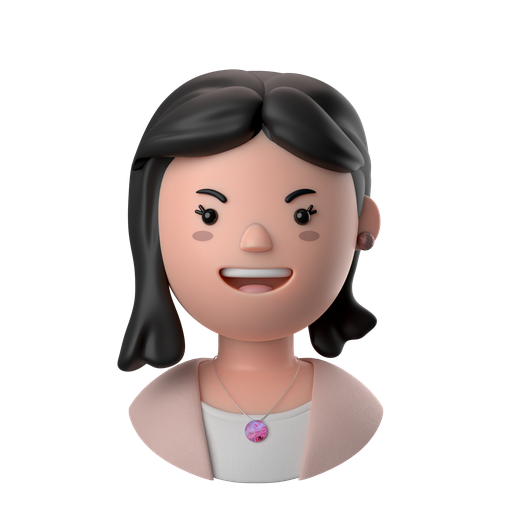
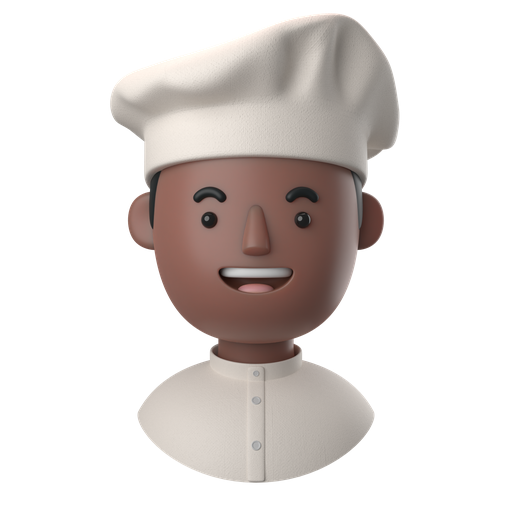
Update the projet

diff --git a/app.js b/app.js
@@ -1,23 +1,115 @@
+/*array of items */
+
 const items = [ "paper", "rock", "scissors"];
 const moves = ["winner" ,"winner2"];
+const names = ["Alix","Élie","Dominique","Morgan","Loïs","Eden","Charlie","Ange","Camille","Stéphane","Ivy","Joy","Cameron","Terry","Taylor","Sidney","Skye","Yuri","Yuma","Yuki","Tomi","Tama","Aoi","Kaori",]
+const avatar = [
+  {
+    id : 1,
+    src : "./image/avatar1.png",
+  },
+
+  {
+    id : 2,
+    src : "./image/avatar2.png",
+  },
+
+  {
+    id : 3,
+    src : "./image/avatar3.png",
+  },
+
+  {
+    id : 4,
+    src : "./image/avatar4.png",
+  },
+
+  {
+    id : 5,
+    src : "./image/avatar5.png",
+  },
+
+  {
+    id : 6,
+    src : "./image/avatar6.png"
+  },
+
+  {
+    id : 7,
+    src : "image/avatar7.png",
+  },
+
+  {
+    id : 8,
+    src : "./image/avatar8.png",
+  },
+
+  {
+    id : 9,
+    src : "./image/avatar9.png",
+  },
+
+
+  {
+    id : 10,
+    src : "./image/avatar10.png",
+  },
+]
+
 
 var choice = document.getElementById("choice");
 var replay = document.getElementById("replay");
 var annoucement= document.getElementById("annoucement");
+
+/*Avatar/skin/character */
 const computerAvatar= document.getElementById("computerAvatar");
 const playerAvatar= document.getElementById("playerAvatar");
+
+/*names */
+const computerName = document.getElementById("computerName");
+
+/*bouttons items */
 const play = document.getElementById("play");
 const playbtn = document.getElementById("btnplay");
 const btns = document.querySelectorAll(".btn-check");
 const btnReplay = document.getElementById("btnreplay");
+
+
 const computerSelection = document.getElementById("computerSelection");
 const playerSelection = document.getElementById("playerSelection");
 const playerIsWinning = document.getElementById("playerIsWinning");
+
+/*winning items */
 const computerIsWinning = document.getElementById("computerIsWinning");
 const stars = document.querySelectorAll(".star");
 const confettis = document.querySelectorAll(".confetti");
 
 
+
+/* Generate a random image and names for the computer avatar  */
+
+const randomItems = (arr) =>{
+  return Math.floor(Math.random() * arr.length)
+}
+
+const randomComputerImg = ()=>{
+  /*computer image cannot be the same as the player  */
+ computerAvatar.src =  avatar[randomItems(avatar)].src
+ if (computerAvatar.src == playerAvatar.src){
+  computerAvatar.src =  avatar[randomItems(avatar)].src
+ }
+
+}
+
+const randomComputerName = ()=>{
+ computerName.textContent = names[randomItems(names)];
+}
+computerSpeudo =  computerName.textContent;
+
+window.addEventListener("DOMContentLoaded", () => {
+  randomComputerImg()
+  randomComputerName()
+})
 
 
 
@@ -27,7 +119,6 @@ const confettis = document.querySelectorAll(".confetti");
   playbtn.addEventListener("click", ()=>{
   play.classList.add("visually-hidden")
   choice.classList.remove("visually-hidden")
-
  });
 
  
@@ -36,21 +127,23 @@ const confettis = document.querySelectorAll(".confetti");
 
 /*THE GAME */
 /* Getting player choice*/
-let playerChoice = undefined;
+ let playerChoice = undefined;
  let playerScore = 0;
  let computerScore = 0;
 
 
 
 
-btns.forEach(btn => 
+
+
+  btns.forEach(btn => 
   btn.addEventListener("click", (e)=>{
-   playerChoice = e.currentTarget.id;
+  playerChoice = e.currentTarget.id;
 
   const computerResult = document.getElementById("computer-result");
   const playerResult = document.getElementById("player-result");
 
-  
+
 
  if (playerScore < 5 && computerScore < 5){
   
@@ -114,7 +207,7 @@ if(!equality.classList.contains("visually-hidden")){
 /*Display the result */
 computerResult.textContent = computerScore;
 playerResult.textContent = playerScore;
-computerSelection.innerHTML =`<p>The computer choose <span class="text-danger text-capitalize fs-3">${computerChoice}</span> </p>`
+computerSelection.innerHTML =`<p>${computerName.textContent} choose <span class="text-danger text-capitalize fs-3">${computerChoice}</span> </p>`
 playerSelection.innerHTML =`<p>You\'ve choose <span class="text-primary text-capitalize fs-3">${playerChoice}</span> </p>`
 
 } else {  
@@ -124,7 +217,6 @@ playerSelection.innerHTML =`<p>You\'ve choose <span class="text-primary text-cap
     } 
   
     var winnerMoves = moves[randomMoves(moves)]
-    console.log(winnerMoves)
  
 
   if(computerScore == 5){
@@ -152,8 +244,6 @@ playerSelection.innerHTML =`<p>You\'ve choose <span class="text-primary text-cap
     stars.forEach( star=>{
        star.classList.add("emoticon2");
     });
-
-
 
   }
   
@@ -198,14 +288,17 @@ btnReplay.addEventListener("click",()=>{
      star.classList.remove("emoticon2");
   });
 
-})
+ 
+  computerSelection.innerHTML =""
+   playerSelection.innerHTML =""
 
+  randomComputerImg()
+  randomComputerName()
+})
 }
 
 })
 );
-
-
 
 
 

diff --git a/index.html b/index.html
@@ -14,15 +14,52 @@
 <body >
 
 
+<!--Modal-->
+<div id="modal" class="container-fluid d-flex justify-content-center align-items-center position-absolute top-50 start-50 translate-middle visually-hidden"   >
+  <div id="modalbg" class="container-fluid position-absolute d-flex justify-content-center align-items-center ">  
+    <div id="modalcontent" class="container border border-dark rounded  bg-light col-md-9 "  >
+      <div class="row d-md-flex justify-content-center align-items-center">
+
+        <div class="container-fluid">
+            <h1 class="text-center pt-5">Choose your character !</h1>
+        </div> 
+
+        <div  id="modalcard" class="row">
+          <div class="container-fluid bg-warning d-flex justify-content-center" >
+            <div class="card border border-dark rounded" >
+              <img src="image/avatar1.png" alt="card-img" class="card-img">
+
+              <!--Card generated by javascript-->
+
+
+            </div>
+
+
+          </div>
+  
+        </div>
+    
+      </div>
+    
+    </div>
+  </div>
+
+
+  
+</div>
+
 
 <!--navbar-->
-<nav class="navbar navbar-expand-lg px-5 py-3">
+<nav class="navbar px-5 py-3">
   
-   <div class="container-fluid d-md-flex justify-content-between">
-      <h1 class="navbar-brand ">Rock Paper Scissors !</h1>
+   <div class="container-fluid d-md-flex  ">
+
+      <h1 class="navbar-brand  ">Rock Paper Scissors !</h1>
+
       <a href="https://github.com/Ocece77" target="_blank" referrerpolicy="noopenner noreferrer" class="nav-link">
-      <img  class="img-fluid " src="/image/iconmonstr-github-1.svg" alt="logo" width="30">
+      <img  class="img-fluid " src="/image/iconmonstr-github-1.svg" alt="logo" width="100%">
     </a>
+
    </div>
 </nav>
 
@@ -46,13 +83,10 @@
                 <img class="position-absolute top-50 start-0 translate-middle confetti " src="./image/confetti.png " alt="confetti" width="70%">
                  <img class="position-absolute bottom-100 end-0 star " src="./image/star.png " alt="star" width="40%" >
            </div>
-           
-
-
               <img id="computerAvatar" src="./image/avatar1.png" alt="avatar" class="img-fluid position-relative" style="width: 50vw; ">
         </div>
 
-          <p class="text-danger fs-1 text-center">Computer</p>
+          <p id="computerName"class="text-danger fs-1 text-center"></p>
           <p id="computerSelection" class="text-dark fs-3 text-center"></p>
 
          </div>
@@ -73,14 +107,14 @@
 
     <div class="col-md-4 justify-content-center ">
 
-      <div class="d-md-flex row justify-content-center align-items-center p-5">
+      <div class=" d-md-flex row justify-content-center align-items-center p-5">
 
-        <div class=" d-flex justify-content-center container rounded-circle  mb-9 position-relative" style=" background-color: #29C5F6;" >
+        <div class="d-flex justify-content-center container rounded-circle  mb-9 position-relative" style=" background-color: #29C5F6;" >
 
           <div class=" container d-flex bg-dark position-absolute bottom-50  visually-hidden " id="playerIsWinning">
              <img class="position-absolute top-50 start-0 translate-middle confetti " src="./image/confetti.png " alt="confetti" width="70%">
               <img class="position-absolute bottom-100 end-0 star " src="./image/star.png " alt="star" width="40%" >
-        </div>
+           </div>
         
           <img  id="playerAvatar" src="./image/avatar2.png" alt="avatar" class="img-fluid position-relative" style="width: 50vw;">
         </div>

diff --git a/styles.css b/styles.css
@@ -50,6 +50,20 @@ to{
 }
 
 
+
+
+
+/*Animation when one player win !*/
+.winner{
+  animation: winnerMove ease-in-out 1s  infinite  ;
+}
+
+.winner2{
+  animation: winnerMove2 ease-in 1s  infinite  ;
+}
+
+
+/*Animation for the icon */
 @keyframes emoticon2{
   from{
   
@@ -58,14 +72,6 @@ to{
   }
   to{
   }
-}
-
-.winner{
-  animation: winnerMove ease-in-out 1s  infinite  ;
-}
-
-.winner2{
-  animation: winnerMove2 ease-in 1s  infinite  ;
 }
 
 .star{
@@ -78,4 +84,33 @@ to{
 
 .emoticon2{
   animation: emoticon2 ease-in-out .5s  ;
+}
+
+
+/*modal box*/
+
+#modal{
+  height: 100%;
+  z-index: 1000;
+}
+
+#modalbg{
+  background-color: rgba(0, 0, 0, .4);
+  height: 100%;
+}
+
+#modalcontent{
+height: 60vh;
+}
+
+#modalcard{
+  height: 100%;
+}
+
+.card{
+  width: 17%;
+}
+
+@media screen and (max-width:428px){
+  
 }
